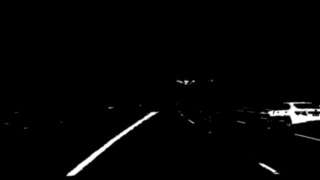
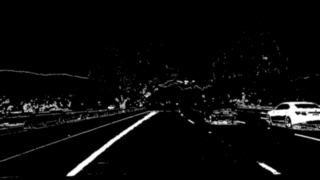
binary mask improvement, option to seleft video frames range

diff --git a/libs/lane_pipeline.py b/libs/lane_pipeline.py
@@ -2,6 +2,8 @@ import cv2
 import numpy as np
 from libs.calibration import Calibration
 
+import matplotlib.pyplot as plt
+
 class LanePipeline:
     def __init__(self):
         self.calibration = Calibration()
@@ -10,17 +12,26 @@ class LanePipeline:
         self.calibration.run(folder_path)
 
     def get_binary_map(self, bgr_frame:np.ndarray):
+        # Use grayscale taken as half of saturation and hald of red channel of RGB
         hls = cv2.cvtColor(bgr_frame, cv2.COLOR_BGR2HLS)
         r = bgr_frame[:,:,2]
         s = hls[:,:,2]
+        gray = s//2+r//2
 
+        # Calculate magnitude of Sobel x & y 
+        sobelx = cv2.Sobel(gray, cv2.CV_64F, 1, 0)
+        sobely = cv2.Sobel(gray, cv2.CV_64F, 0, 1)
+        gradmag = np.sqrt(sobelx**2 + sobely**2)
+        scale_factor = np.max(gradmag)/255 
+        gradmag = (gradmag/scale_factor).astype(np.uint8) 
+
+        # Threshold Red Color and Saturation
         r_thresh = (190, 255)
         r_binary = (r>r_thresh[0]) & (r<=r_thresh[1])
-
         s_thresh = (90,255)
         s_binary = (s>s_thresh[0]) & (s<=s_thresh[1])
 
-        return s_binary*r_binary
+        return (gradmag>50) | (s_binary*r_binary)
 
     def get_bird_eye_frame(self, binary_frame:np.ndarray, data, debug=True, inverse=False):
         h,w = binary_frame.shape[0], binary_frame.shape[1]
@@ -90,15 +101,22 @@ class LanePipeline:
         binary_frame = (binary_frame[:,:,0]/255).astype(int)
 
         # Measure midpoints of left & right part in lower bottom of an immage
-        bottom_half = (binary_frame[w//2:,:])
+        bottom_half = (binary_frame[h//2:,:])
         histogram = np.sum(bottom_half, axis=0)
+        if debug:
+            fig = plt.figure()
+            plt.plot(histogram)
+            plt.savefig('histogram.png')
+            data['hist']=cv2.imread('histogram.png')
+            plt.close()
+
         max_left_index = np.argmax(histogram[:w//2])
         max_right_index = np.argmax(histogram[w//2:]) + w//2
 
         # Line area search parameters
         current_left_x = max_left_index
         current_right_x = max_right_index
-        padding = 90
+        padding = 110
         window_number = 12
         window_height = h//window_number
 
@@ -206,9 +224,10 @@ class LanePipeline:
         return bgr_frame
 
     def process_frame(self, bgr_frame:np.ndarray, text:str=None):
+        # TODO generate all test images output
         # TODO average with last frame, 
         # TODO reuse lanes if new not found
-        # TODO generate all test images output
+        # TODO challanges
 
         # Prepare variables
         frame  = bgr_frame.copy()

diff --git a/lane_finder.py b/lane_finder.py
@@ -5,13 +5,15 @@ from tqdm import tqdm
 from libs.lane_pipeline import LanePipeline
 
 class LaneFinder:
-    def __init__(self, input_path: str, output_path: str, calibration_path: str, mode: str, multiview: bool):
+    def __init__(self, input_path: str, output_path: str, calibration_path: str, mode: str, multiview: bool, frame_from, frame_to):
         self.input_path = input_path
         self.output_path = output_path
         self.calibration_path = calibration_path
         self.mode = mode
         self.lane_pipeline = LanePipeline()
         self.multiview = multiview
+        self.frame_from = frame_from
+        self.frame_to = frame_to
 
     def process(self, show_progress=True):
         if self.mode == 'video':
@@ -43,7 +45,6 @@ class LaneFinder:
         return output
 
     def __process_video(self):
-        # TODO add split video mode
         frame_index = 0
         cap = cv2.VideoCapture(self.input_path)
         fps = cap.get(cv2.CAP_PROP_FPS)
@@ -57,17 +58,18 @@ class LaneFinder:
             while(cap.isOpened()):
                 ret, frame = cap.read()
                 if ret:
-                    if out is None:
-                        width = frame.shape[1]
+                    if frame_index>= self.frame_from and frame_index<=self.frame_to:
+                        if out is None:
+                            width = frame.shape[1]
+                            if self.multiview:
+                                width *= 2
+                            out = cv2.VideoWriter(self.output_path, cv2.VideoWriter_fourcc('M','J','P','G'), fps, (width,frame.shape[0]))
+
+                        processed, data = self.__process_frame(frame, text=f"{frame_index}")
                         if self.multiview:
-                            width *= 2
-                        out = cv2.VideoWriter(self.output_path, cv2.VideoWriter_fourcc('M','J','P','G'), fps, (width,frame.shape[0]))
+                            processed = self.__merge_frames(processed, data)
 
-                    processed, data = self.__process_frame(frame, text=f"{frame_index}")
-                    if self.multiview:
-                        processed = self.__merge_frames(processed, data)
-
-                    out.write(processed)
+                        out.write(processed)
                     frame_index+=1
                     p.update(1)
                 else:

diff --git a/main.py b/main.py
@@ -9,13 +9,14 @@ parser.add_argument('-input', type=str, help='path of input picture or video', d
 parser.add_argument('-output', type=str, help='path of output picture or video', default=None)
 parser.add_argument('-calibration_path', type=str, help='path to folder with calibration chessboard images', default=None)
 parser.add_argument('-multiview', action='store_true', default=False)
+parser.add_argument('-ff', type=int, default=0, help='Frame from')
+parser.add_argument('-ft', type=int, default=1000000, help='Frame to')
 args = parser.parse_args()
 
 # Parameters logic
 mode = None
 video_ext = ['mp4']
 image_ext = ['jpg']
-
 
 if args.input.split('.')[-1] in video_ext and args.output.split('.')[-1] in video_ext:
     mode = "video"
@@ -25,7 +26,7 @@ if args.input.split('.')[-1] in image_ext and args.output.split('.')[-1] in imag
 
 # Call proper method
 if mode == "video" or mode == "image":
-    lane_finder = LaneFinder(args.input, args.output, args.calibration_path, mode, args.multiview)
+    lane_finder = LaneFinder(args.input, args.output, args.calibration_path, mode, args.multiview, args.ff, args.ft)
     lane_finder.process()
     print("DONE.")
 else:

diff --git a/README.md b/README.md
@@ -42,6 +42,10 @@ The pipeline
 7. Starting from bottom search for centers of mass inside rectangular areas (while shifting window to new center)  
 ![Raw image](examples/straight_lines1_04_windows.jpg "Raw image")![Raw image](examples/test1_04_windows.jpg "Raw image")  
 
+Bottom start place is calculated basing on historam of bottom part of binary lanes image in axis of x like so:  
+![Raw image](examples/straight_lines1_hist.jpg "Raw image")
+![Raw image](examples/test1_hist.jpg "Raw image")
+
 8. Basing on centers of lanes inside areas find quadratic function that matches the points and plot the lanes  
 ![Raw image](examples/straight_lines1_05a_lanes_still_undistorted.jpg "Raw image")![Raw image](examples/test1_05a_lanes_still_undistorted.jpg "Raw image") 
 
